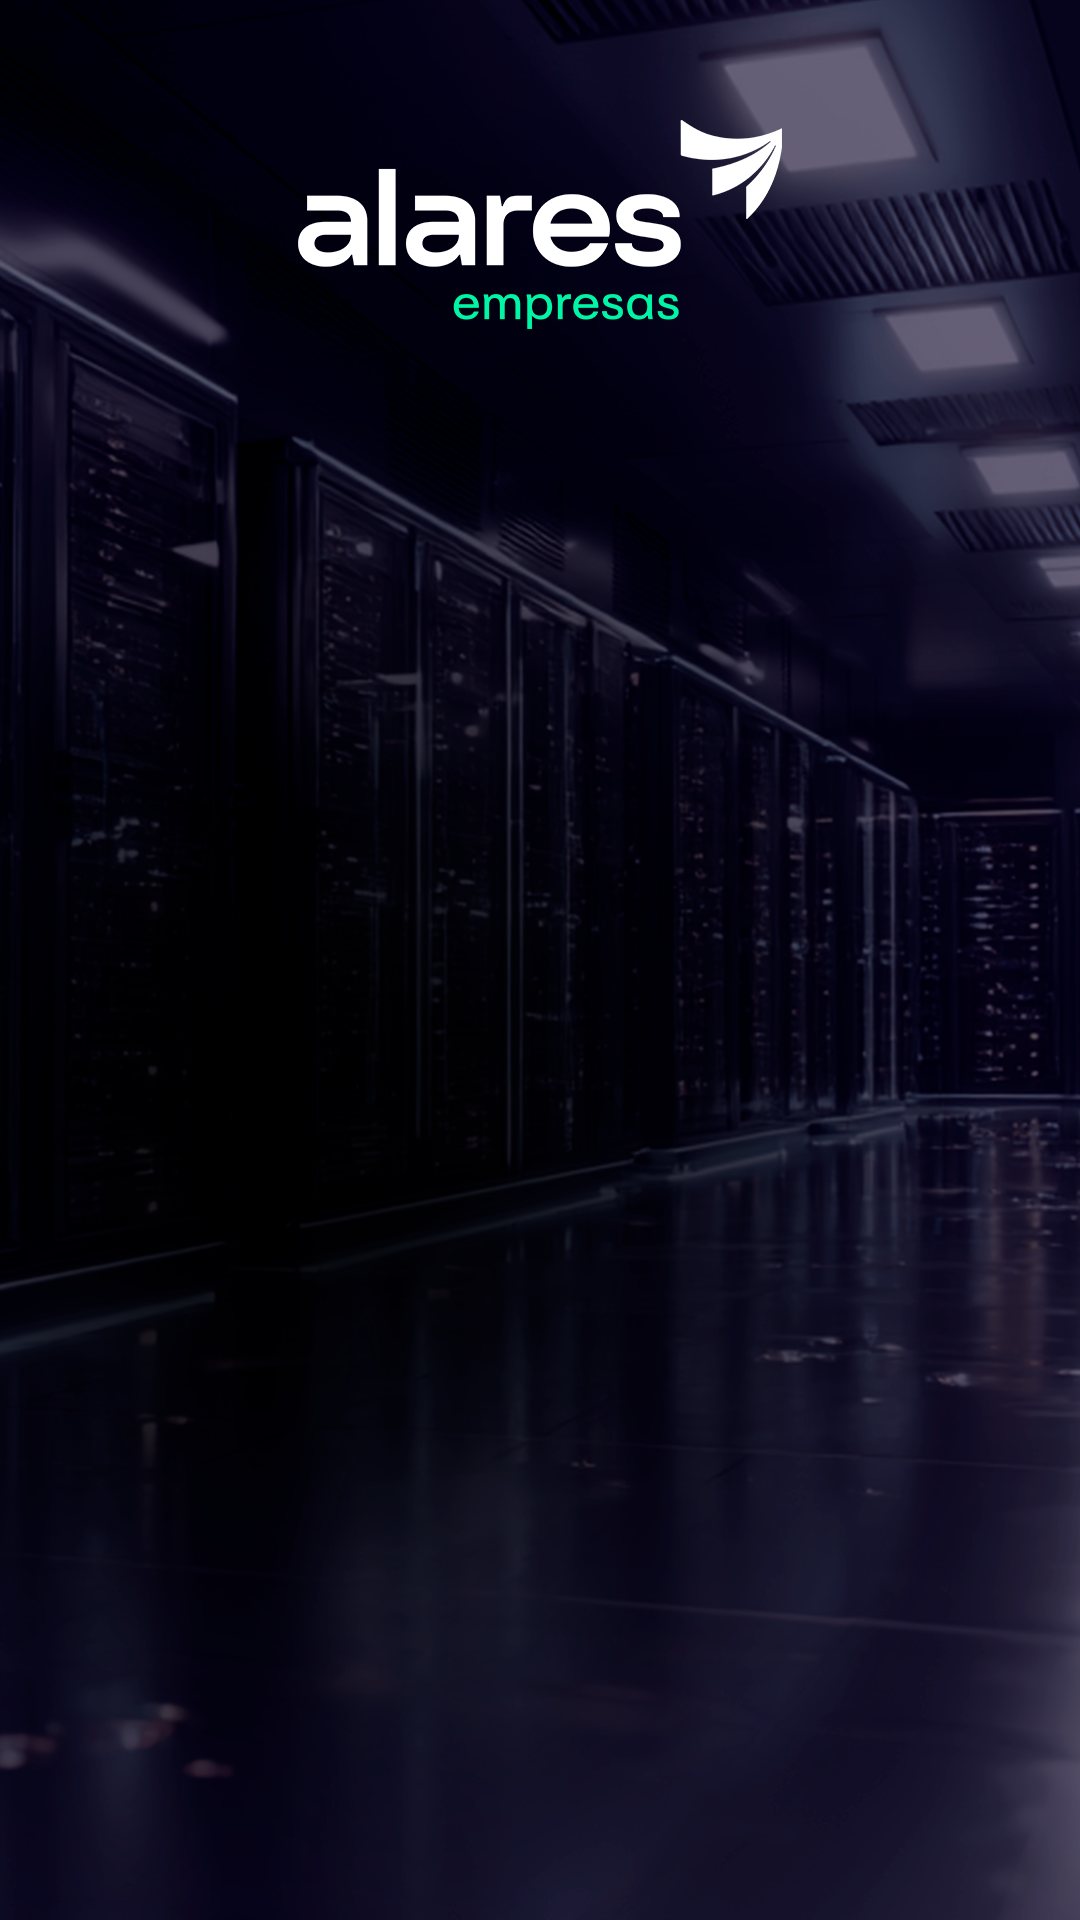
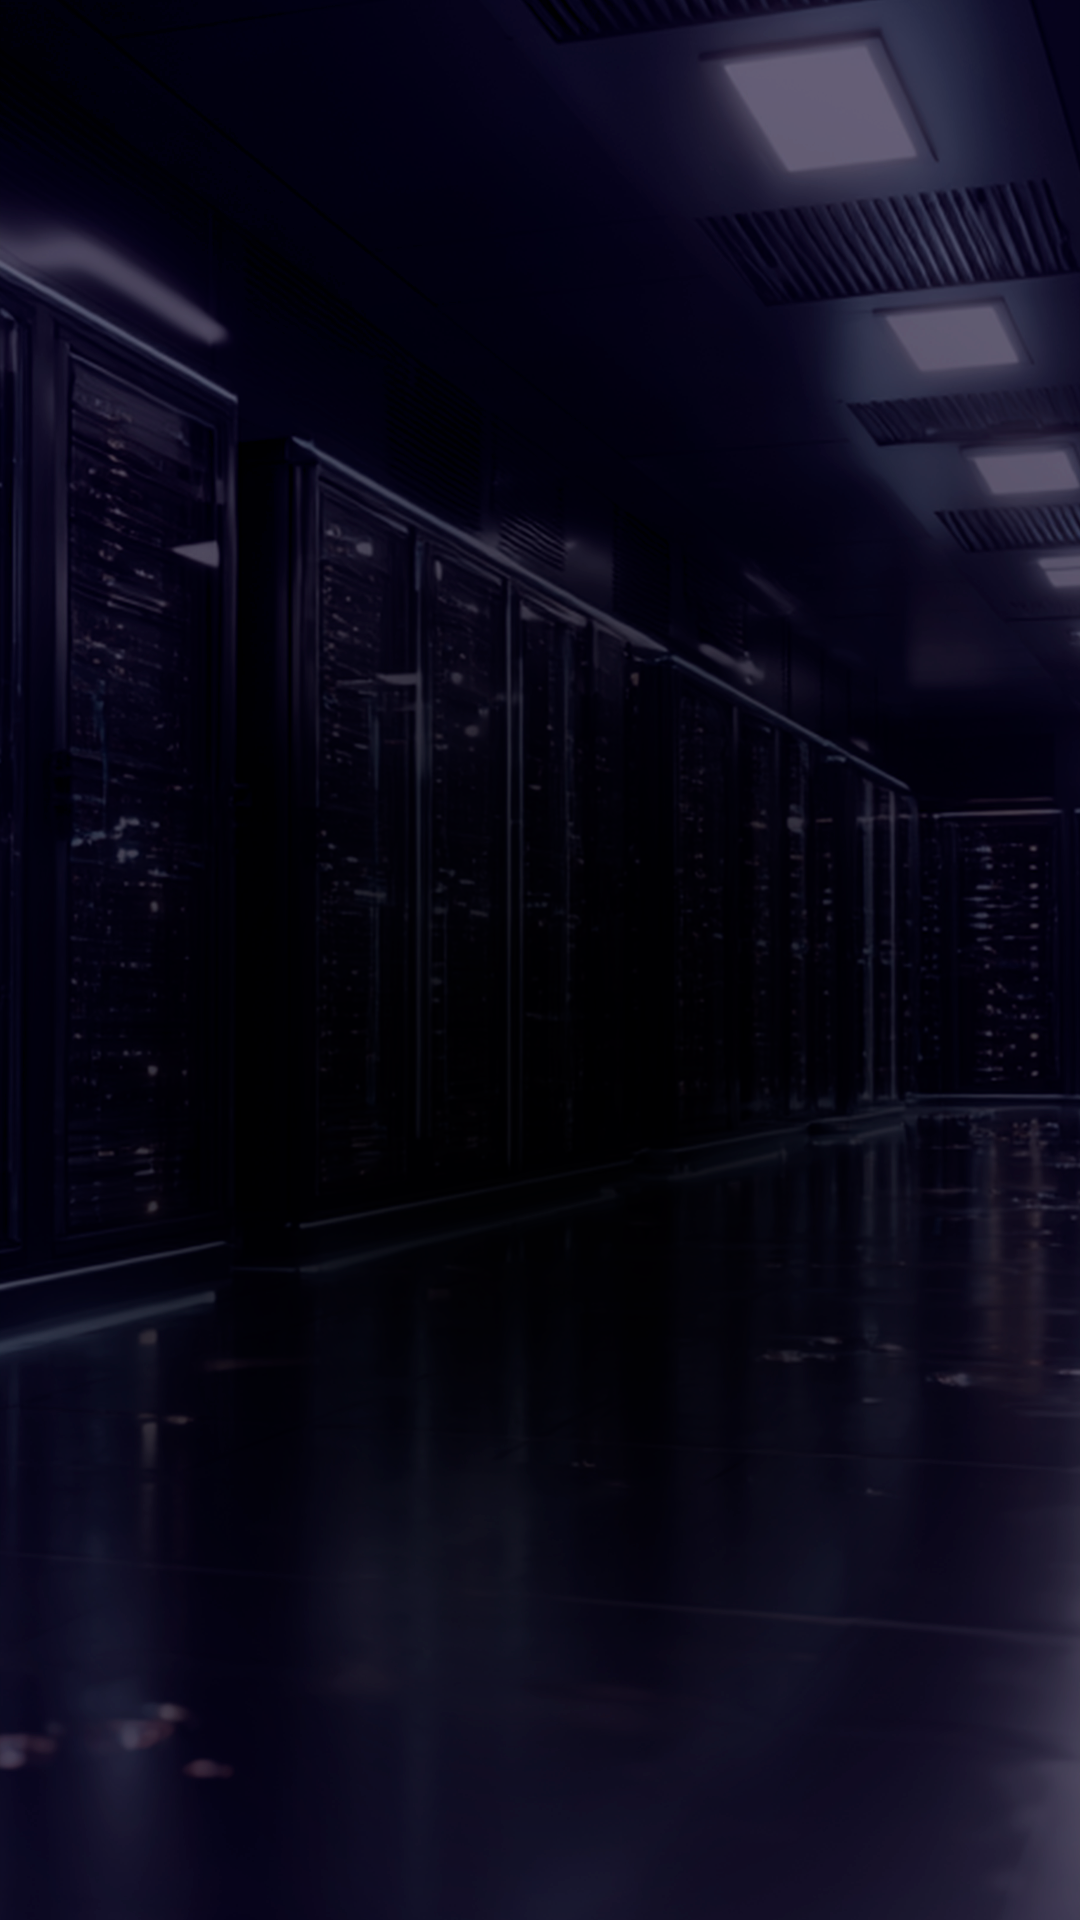
aa

diff --git a/app/pages/Tela3.tsx b/app/pages/Tela3.tsx
@@ -65,7 +65,6 @@ export function Tela3() {
   const [loading, setLoading] = useState(false)
   const [erro, setErro] = useState<string | null>(null)
   const [formReady, setFormReady] = useState(false)
-  const [layoutAlt, setLayoutAlt] = useState(false)
 
   useEffect(() => {
     setCidade('')
@@ -108,22 +107,22 @@ export function Tela3() {
 
   return (
     <>
-    {isTotem && <VirtualKeyboard position={layoutAlt ? 'top' : 'bottom'} />}
-    {isTotem && layoutAlt && (
+    {isTotem && <VirtualKeyboard bottomOffset={300} />}
+    {isTotem && (
       <div style={{
         position: 'fixed',
-        bottom: '80px',
+        bottom: 0,
         left: 0,
         right: 0,
-        zIndex: 1000,
-        height: '390px',
+        zIndex: 999,
+        height: '300px',
         display: 'flex',
-        alignItems: 'flex-start',
+        alignItems: 'center',
         justifyContent: 'center',
-        paddingTop: '10px',
+        paddingBottom: '48px',
         pointerEvents: 'none',
       }}>
-        <img src="/alares.png" alt="Alares" style={{ height: '460px', width: '100%', objectFit: 'contain' }} />
+        <img src="/alares.png" alt="Alares" style={{ height: '230px', objectFit: 'contain' }} />
       </div>
     )}
     <ScreenBackground src="/backgrounds/tela3.png">
@@ -131,10 +130,7 @@ export function Tela3() {
         onSubmit={handleSubmit}
         autoComplete="off"
         className="absolute inset-0 flex flex-col items-center pb-8 totem:pb-12"
-        style={{
-          paddingTop: isTotem ? (layoutAlt ? '400px' : '20vh') : '26vh',
-          paddingBottom: isTotem ? '390px' : '0',
-        }}
+        style={{ paddingTop: isTotem ? '6vh' : '26vh', paddingBottom: isTotem ? '700px' : '0' }}
       >
         {/* Wrapper centralizado com largura máxima */}
         <div className="w-full flex flex-col flex-1 overflow-hidden px-6" style={{ maxWidth: '860px' }}>
@@ -320,26 +316,6 @@ export function Tela3() {
             )
           })()}
 
-          {isTotem && (
-            <button
-              type="button"
-              onClick={() => setLayoutAlt(a => !a)}
-              style={{
-                alignSelf: 'center',
-                background: 'transparent',
-                border: '1px solid rgba(255,255,255,0.25)',
-                color: 'rgba(255,255,255,0.45)',
-                borderRadius: '8px',
-                padding: 'clamp(5px, 0.8vh, 10px) clamp(14px, 2vw, 28px)',
-                fontSize: 'clamp(0.65rem, 1.1vh, 0.85rem)',
-                cursor: 'pointer',
-                marginTop: '6px',
-                flexShrink: 0,
-              }}
-            >
-              {layoutAlt ? '⌨ teclado embaixo' : '⌨ teclado em cima'}
-            </button>
-          )}
         </div>
         </div>
       </form>

diff --git a/app/components/VirtualKeyboard.tsx b/app/components/VirtualKeyboard.tsx
@@ -23,21 +23,6 @@ const NUMPAD_ROWS = [
   ['7','8','9'],
 ]
 
-function kbStyle(position: 'top' | 'bottom'): React.CSSProperties {
-  return {
-    position: 'fixed',
-    ...(position === 'top'
-      ? { top: 0, borderBottom: '1px solid rgba(255,255,255,0.12)' }
-      : { bottom: 0, borderTop: '1px solid rgba(255,255,255,0.12)' }),
-    left: 0,
-    right: 0,
-    zIndex: 1000,
-    background: 'rgba(6, 14, 42, 0.98)',
-    padding: '12px 14px 18px',
-    backdropFilter: 'blur(12px)',
-  }
-}
-
 const rowStyle: React.CSSProperties = {
   display: 'flex',
   gap: '7px',
@@ -90,12 +75,23 @@ function Key({
   )
 }
 
-export function VirtualKeyboard({ position = 'bottom' }: { position?: 'top' | 'bottom' }) {
+export function VirtualKeyboard({ bottomOffset = 0 }: { bottomOffset?: number }) {
   const { mode, pressKey, closeKeyboard } = useKeyboard()
   const [caps, setCaps] = useState(false)
   const [view, setView] = useState<View>('letters')
 
-  const kb = kbStyle(position)
+  const kb: React.CSSProperties = {
+    position: 'fixed',
+    bottom: bottomOffset,
+    left: 0,
+    right: 0,
+    zIndex: 1000,
+    background: 'rgba(6, 14, 42, 0.98)',
+    borderTop: '1px solid rgba(255,255,255,0.12)',
+    padding: '12px 14px 18px',
+    backdropFilter: 'blur(12px)',
+  }
+
   const dim = 'rgba(255,255,255,0.08)'
   const red = 'rgba(220,60,60,0.3)'
   const green = '#00f6a5'

diff --git a/.next/server/webpack-runtime.js b/.next/server/webpack-runtime.js
@@ -125,7 +125,7 @@
 /******/ 	
 /******/ 	/* webpack/runtime/getFullHash */
 /******/ 	(() => {
-/******/ 		__webpack_require__.h = () => ("8d6dbceb8f11881c")
+/******/ 		__webpack_require__.h = () => ("a10e8895a5d92155")
 /******/ 	})();
 /******/ 	
 /******/ 	/* webpack/runtime/hasOwnProperty shorthand */

diff --git a/.next/static/chunks/app/layout.js b/.next/static/chunks/app/layout.js
@@ -46,7 +46,7 @@ eval(__webpack_require__.ts("var __dirname = \"/\";\n(()=>{\"use strict\";var e=
 /***/ (function(module, __webpack_exports__, __webpack_require__) {
 
 "use strict";
[2 lines of base64/hex data omitted]
 
 /***/ }),
 

diff --git a/.next/static/chunks/webpack.js b/.next/static/chunks/webpack.js
@@ -192,7 +192,7 @@
 /******/ 	
 /******/ 	/* webpack/runtime/getFullHash */
 /******/ 	!function() {
-/******/ 		__webpack_require__.h = function() { return "a6b6c00cb7c493e5"; }
+/******/ 		__webpack_require__.h = function() { return "49f4d2ef3a656f3e"; }
 /******/ 	}();
 /******/ 	
 /******/ 	/* webpack/runtime/global */